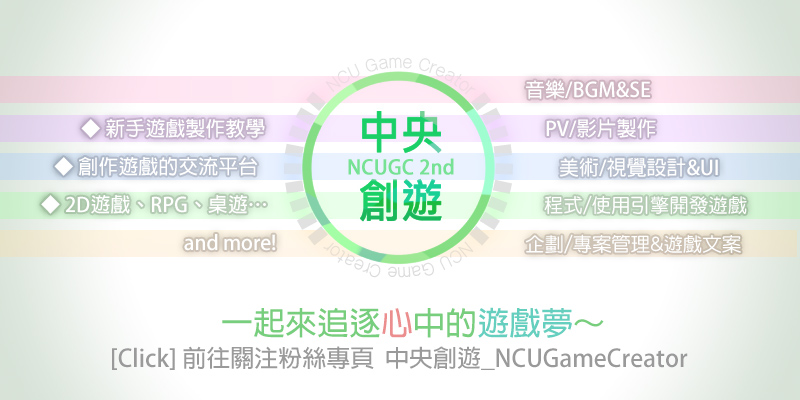
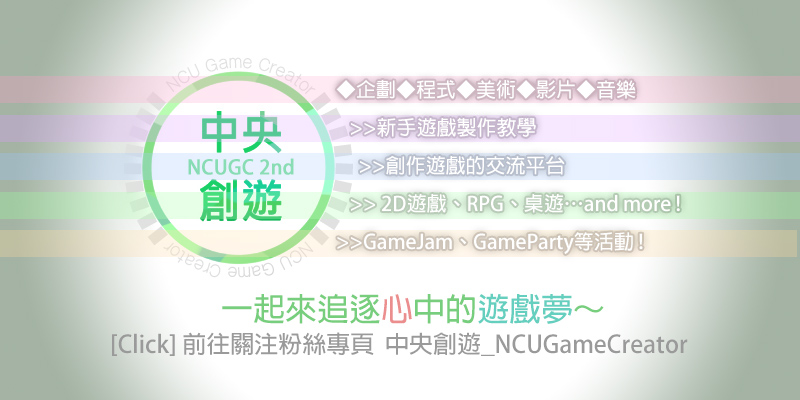
新的廣告~

diff --git a/resources/views/home.blade.php b/resources/views/home.blade.php
@@ -163,18 +163,22 @@ $("#timeline .timeline-item .timeline-content.right").addClass(primary_color); /
                     <li data-target="#carousel-single" data-slide-to="0" class="active"></li>
                     <li data-target="#carousel-single" data-slide-to="1" class=""></li>
                     <li data-target="#carousel-single" data-slide-to="2" class=""></li>
+                    <li data-target="#carousel-single" data-slide-to="3" class=""></li>
                 </ol>
 
             		<!-- Wrapper for slides -->
             		<div class="carousel-inner">
-            				<figure class="item preload loaded active" onclick="javascript:location.href='https://www.facebook.com/IEEE-NCU-Student-Branch-1045673762117443/?fref=ts'" style="background-image: url({{asset('img/home/ieee.jpg')}});">
-              					<figcaption class="carousel-caption">IEEE 中央學生分會</figcaption>
+                    <figure class="item preload loaded active" onclick="javascript:location.href='https://www.facebook.com/NCUGC/'" style="background-image: url({{asset('img/home/ncugc.jpg')}});">
+                        <figcaption class="carousel-caption">中央創遊</figcaption>
+                    </figure>
+            				<figure class="item preload loaded" onclick="javascript:location.href='https://www.facebook.com/IEEE-NCU-Student-Branch-1045673762117443/?fref=ts'" style="background-image: url({{asset('img/home/ieee.jpg')}});">
+              					<figcaption class="carousel-caption">IEEE</figcaption>
             				</figure>
-                    <figure class="item preload loaded" onclick="javascript:location.href='https://www.facebook.com/NCUGC/'" style="background-image: url({{asset('img/home/ncugc.jpg')}});">
-              					<figcaption class="carousel-caption">中央創遊</figcaption>
+            				<figure class="item preload loaded" style="background-image: url({{asset('img/home/ncucy.png')}});">
+              					<figcaption class="carousel-caption">中友迎新</figcaption>
             				</figure>
-            				<figure class="item preload loaded" style="background-image: url(http://lorempicsum.com/futurama/750/400/1);">
-              					<figcaption class="carousel-caption">中央大學</figcaption>
+                    <figure class="item preload loaded" style="background-image: url({{asset('img/home/ncugg.JPG')}});">
+              					<figcaption class="carousel-caption">新生初夜</figcaption>
             				</figure>
             		</div>
 
